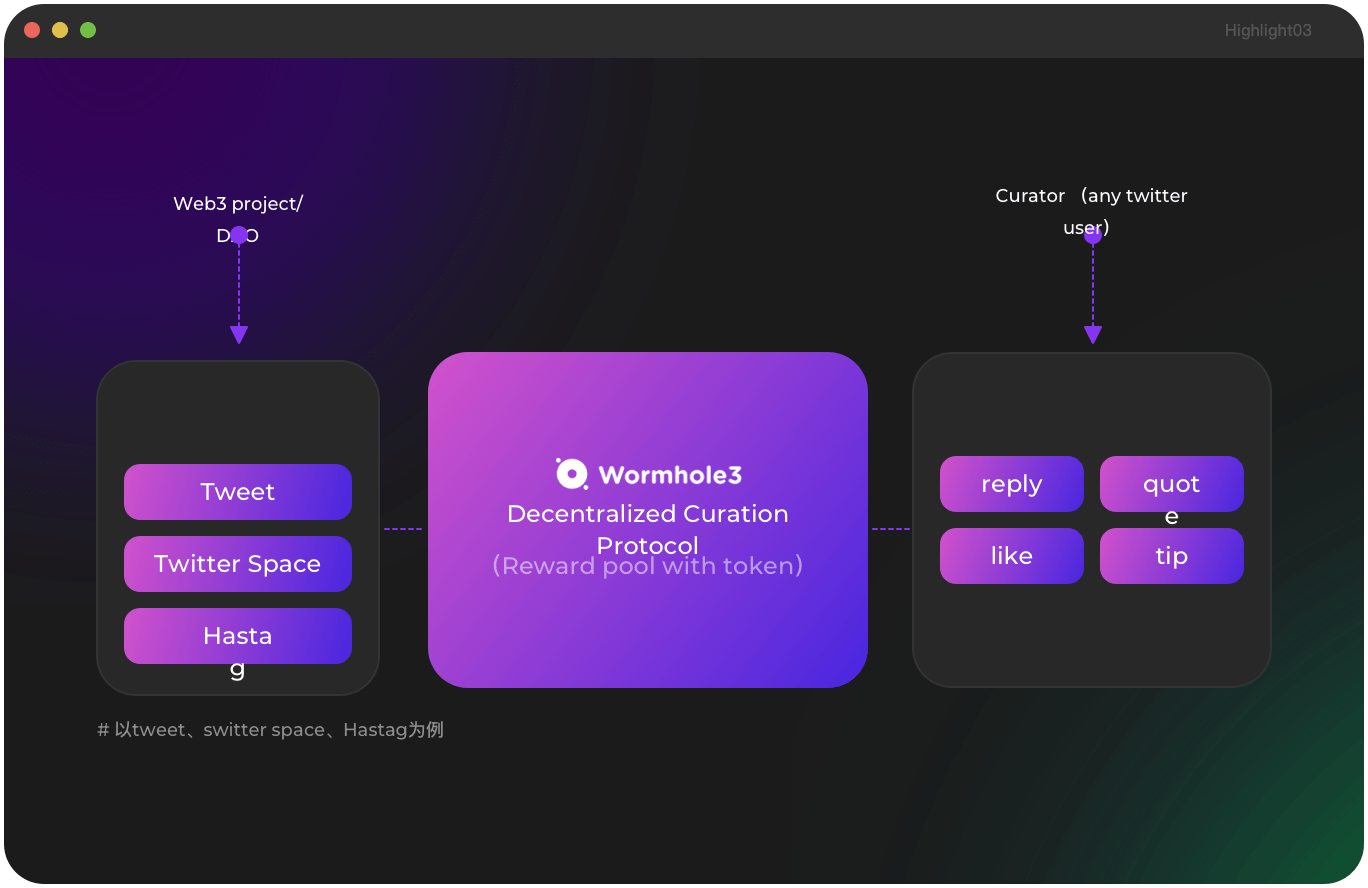
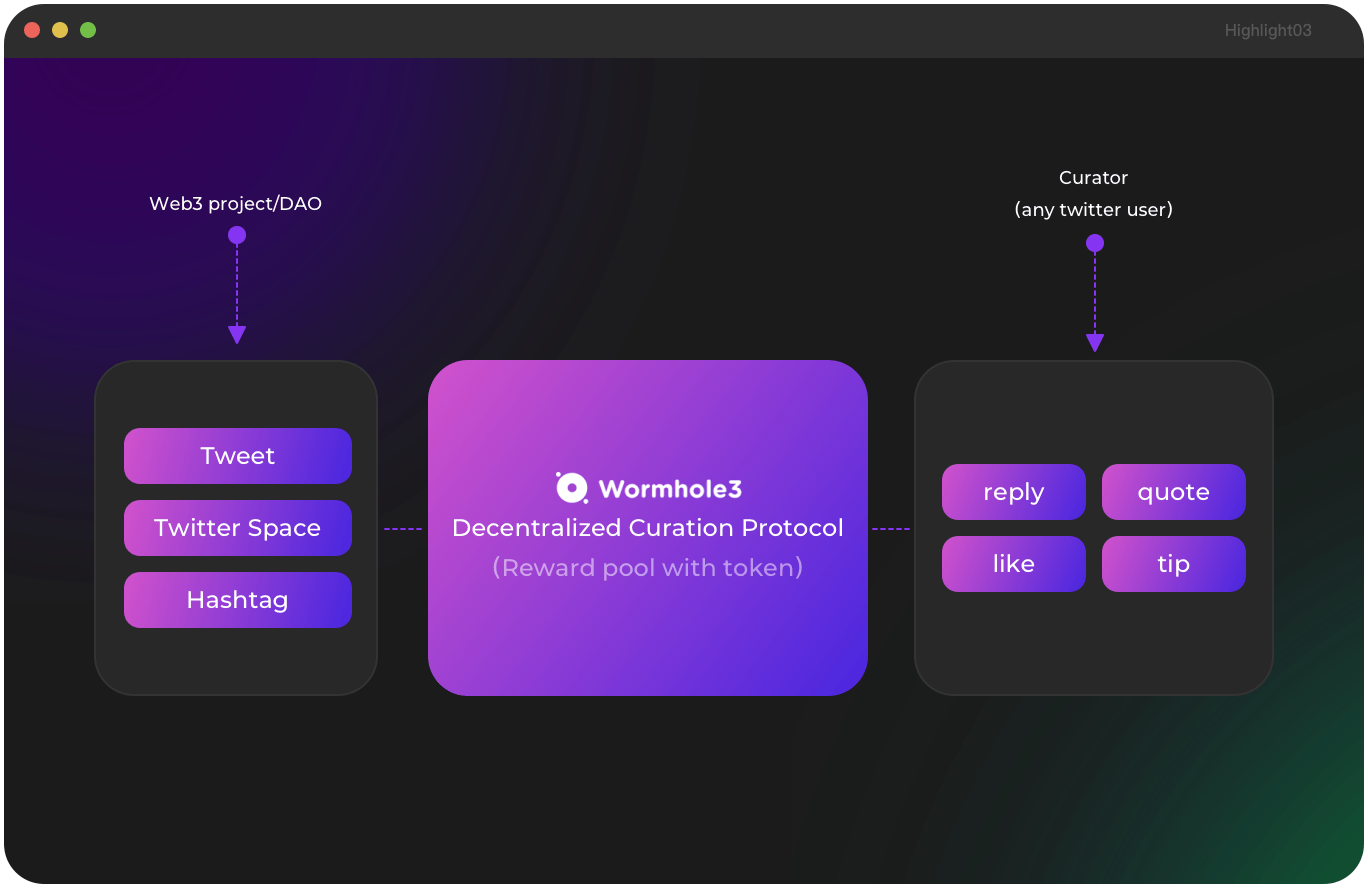
fix ui

diff --git a/src/views/Wormhole3.vue b/src/views/Wormhole3.vue
@@ -6,10 +6,10 @@
                   sm:h-130/100 xs:-top-10/100 object-contain xs:object-cover
                   -right-5/100 xl:right-0 z-0"
            src="~@/assets/wormhole-bg1.png" alt="">
-      <div class="max-w-1080px px-15px sm:px-2rem mx-auto z-1">
+      <div class="max-w-1080px w-full px-15px sm:px-2rem mx-auto z-1">
         <div class="whitespace-pre-line">
-          <div class="text-34px leading-44px xs:text-34px sm:text-48px sm:leading-48px
-                  md:text-60px md:leading-60px lg:text-78px lg:leading-78px
+          <div class="text-28px leading-34px sm:text-44px sm:leading-50px
+                  md:text-54px md:leading-60px lg:text-72px lg:leading-76px
                   font-MonsterratMedium">{{$t('wormhole.section1P1')}}</div>
           <div class="max-w-660px mt-32px font-MonsterratLight opacity-50">{{$t('wormhole.section1P2')}}</div>
         </div>
@@ -46,28 +46,25 @@
               {{$t('wormhole.highlight')}}
             </div>
             <div class="text-right">
-              <div class="flex flex-row-reverse">
-                <div class="border-t-1 border-primaryColor font-MonsterratBlack text-20px py-20px min-w-60px cursor-pointer"
-                     :class="carouselIndex===0?'text-primaryColor':'text-white'"
-                     @click="setCarouselIndex(0)">01</div>
+              <div class="flex flex-row-reverse cursor-pointer" @click="setCarouselIndex(0)">
+                <div class="border-t-1 border-primaryColor font-MonsterratBlack text-20px py-20px min-w-60px"
+                     :class="carouselIndex===0?'text-primaryColor':'text-white'">01</div>
                 <div class="border-t-1 border-white/50 mr-10px py-20px text-12px leading-18px xs:text-16px xs:leading-20px"
                      :class="carouselIndex===0?'text-primaryColor':'text-white'">
                   {{$t('wormhole.section2P1')}}
                 </div>
               </div>
-              <div class="flex flex-row-reverse">
-                <div class="border-t-1 border-primaryColor font-MonsterratBlack text-20px py-20px min-w-60px cursor-pointer"
-                     :class="carouselIndex===1?'text-primaryColor':'text-white'"
-                     @click="setCarouselIndex(1)">02</div>
+              <div class="flex flex-row-reverse cursor-pointer" @click="setCarouselIndex(1)">
+                <div class="border-t-1 border-primaryColor font-MonsterratBlack text-20px py-20px min-w-60px"
+                     :class="carouselIndex===1?'text-primaryColor':'text-white'">02</div>
                 <div class="border-t-1 border-white/50 mr-10px py-20px text-12px leading-18px xs:text-16px xs:leading-20px"
                      :class="carouselIndex===1?'text-primaryColor':'text-white'">
                   {{$t('wormhole.section2P2')}}
                 </div>
               </div>
-              <div class="flex flex-row-reverse">
-                <div class="border-t-1 border-primaryColor font-MonsterratBlack text-20px py-20px min-w-60px cursor-pointer"
-                     :class="carouselIndex===2?'text-primaryColor':'text-white'"
-                     @click="setCarouselIndex(2)">03</div>
+              <div class="flex flex-row-reverse cursor-pointer" @click="setCarouselIndex(2)">
+                <div class="border-t-1 border-primaryColor font-MonsterratBlack text-20px py-20px min-w-60px"
+                     :class="carouselIndex===2?'text-primaryColor':'text-white'">03</div>
                 <div class="border-t-1 border-white/50 mr-10px py-20px text-12px leading-18px xs:text-16px xs:leading-20px"
                      :class="carouselIndex===2?'text-primaryColor':'text-white'">
                   {{$t('wormhole.section2P3')}}
@@ -90,7 +87,7 @@
           {{$t('wormhole.scenario')}}
         </div>
         <div class="flex flex-col md:flex-row items-start md:items-center my-32px gap-36px">
-          <div class="flex-1 font-MonsterratLight text-12px leading-16px sm:min-h-120px flex items-center">
+          <div class="flex-1 font-MonsterratLight text-14px leading-20px sm:min-h-120px flex items-center">
             <div v-if="appCarouselIndex===0" class="max-w-400px whitespace-pre-line">
               {{$t('wormhole.section3P1')}}
             </div>

diff --git a/src/lang/en.js b/src/lang/en.js
@@ -49,7 +49,7 @@ export default {
     partner: 'Partners'
   },
   wormhole: {
-    section1P1: 'Build your influence with a decentralized curation protocol',
+    section1P1: 'Build your influence \n with a decentralized \n curation protocol',
     section1P2: 'Redefine content distribution network with No Chrome plug-in and No gas fee',
     highlight: 'Highlight',
     section2P1: 'Use the curation protocol to build a decentralized content distribution network',
@@ -58,31 +58,31 @@ export default {
     application: 'Application',
     scenario: 'Scenario',
     section3P1: 'Anyone can use Wormhole3 to configure the curation protocol for their tweets, create a curation market, and use cryptocurrencies to reward their community members for their social promotion contributions.',
-    section3P2: 'During Space,\n ① Twitter Space creators can reward their Space promoters with cryptocurrencies,\n ② Speakers can airdrop cryptocurrencies to Space participants by creating flash red envelopes,\n ③ Participants can also reward Speakers Cryptocurrency to show appreciation for its content.',
+    section3P2: 'During Twitter Space,\n ① Creators can reward promoters with cryptocurrencies\n ② Speakers can airdrop cryptocurrencies to participants \n ③ Participants can also reward speakers cryptocurrency to show their appreciation',
     section3P3: 'Anyone can issue tokens for their account, Use the Curation Protocol to distribute tokens to the curator who publishes each tweet/twitter space of the Account, and reward its behaviors such as quote, reply, like, follow and etc.',
     applicationScenario: 'Application Scenario'
   },
   about: {
     section1P1: 'Link Community\n to Web3',
     section1P2: 'Our Mission',
-    section1P3: 'Everyone can start a  DAO and bootstrap it! Any individual can join a free and multilateral global market through Web3.',
+    section1P3: 'Everyone can start a  DAO and bootstrap it! \nAny individual can join a free and multilateral global market through Web3.',
     our: 'Our',
     history: 'History',
-    t1: 'In Q4 of 2017',
+    t1: 'Q4 of 2017',
     p1: 'we launched a club DAO —— 3UDAO, 40 partners set off with the vision of DAO',
-    t2: 'In Q1 of 2019',
+    t2: 'Q1 of 2019',
     p2: 'we created WhereIN - a blockchain-based content community App, and formed a curator DAO',
-    t3: 'In Q4 of 2020',
+    t3: 'Q4 of 2020',
     p3: 'we launched Peanut — a staking DAO. The PoS-based Staking Economy raised funds (ISO) for the DAO and launched staking asset liquidity, liquidity mining, staking pool, proposal governance, etc',
-    t4: 'In Q4 of 2021',
+    t4: 'Q4 of 2021',
     p4: 'we launched Nutbox - a staking DAO creation platform, allowing everyone to create a DAO like Peanut in 3 minutes. Nutbox won third place in the Wanxiang Hackathon in 2021. The TVL reached $36Million 3 weeks after launching it',
-    t5: 'In 2022 Q3',
+    t5: '2022 Q3',
     p5: 'Wormhole3 testnet was launched. We help Web3 projects/DAOs quantify the social influence contributions of community members (such as Quote/Retweet) through curation protocols, and automatically distribute the Tokens of projects/DAOs to contributors.',
-    section3P1: 'Our history',
-    section3P2: 'Wormhole3 is an important part of Coincidence Labs. The vision of Labs is: to empower communities and super-individuals, and help them build agreements to motivate their members\' financial and social contributions.',
+    section3P1: 'Our vision',
+    section3P2: 'Wormhole3 is an important part of Coincidence Labs. \nThe vision of Labs is: to empower communities and super-individuals, \nand help them build agreements to motivate their members\' financial and social contributions.',
     dao: 'DAO',
     smartContract: 'Smart contract',
-    section3P3: 'A DAO Cretion Platform',
+    section3P3: 'A DAO Creation Platform',
     section3P4: 'Curation Protocol',
     section3P5: 'Web3 Protocol（lottery,proof of Brain protocol and etc.）',
     layer1Protocol: 'Layer1 protocol',

diff --git a/src/lang/zh.js b/src/lang/zh.js
@@ -49,7 +49,7 @@ export default {
     partner: '合作伙伴'
   },
   wormhole: {
-    section1P1: '通过去中心化的策展协议建立你的影响力',
+    section1P1: '通过去中心化的策展协议\n建立你的影响力',
     section1P2: '无 Chrome 插件，无 gas 费，重新定义内容分发网络',
     highlight: 'Highlight',
     section2P1: '使用策展协议构建去中心化内容分发网络',
@@ -58,14 +58,14 @@ export default {
     application: '应用',
     scenario: '场景',
     section3P1: '任何人都可以使用Wormhole3为其tweet配置curation protocol，创建策展市场，使用加密货币奖励其社区成员的社交传播贡献。',
-    section3P2: '在Space中，\n① Twitter Space创建者可以使用加密货币奖励其Space的传播者，\n② Speaker可以通过创建快闪红包将加密货币空投给Space互动者，\n③ 参与者亦可对Speaker打赏加密货币以表达对其内容的赞赏。',
+    section3P2: '在Space中，\n① 创作者可以用加密货币奖励其Space的传播者，\n② Speaker可以将加密货币空投给Space互动者，\n③ 参与者亦可对Speaker打赏加密货币以表达对其内容的赞赏。',
     section3P3: '任何人可以为其Account发行Token，使用Curation Protocol将Token分发给Account发布每一条tweet/twitter space的curator，奖励其quote, reply, like and follow等行为.',
     applicationScenario: '应用场景'
   },
   about: {
     section1P1: 'Link Community\n to Web3',
     section1P2: '我们的使命',
-    section1P3: '人人能发起DAO，并实现其冷启动！任何微小个体能够通过Web3加入到一个自由的、多边的全球市场。',
+    section1P3: '人人能发起DAO，并实现其冷启动！\n任何微小个体能够通过Web3加入到一个自由的、多边的全球市场。',
     our: '我们的',
     history: '历史',
     t1: '2017年Q4',
@@ -78,11 +78,11 @@ export default {
     p4: '我们上线了Nutbox —— 一个质押DAO创建平台，让人人都可以3分钟创建Peanut这样的DAO。获得了2021年万向黑客松季军，上线3周，TVL高达$36Million；',
     t5: '2022年Q3',
     p5: ' Wormhole3测试网上线。我们帮助Web3项目/DAO，通过策展协议量化社区成员社交影响力所做的贡献（比如Quote/Retweet），并自动将项目/DAO的Token分发给贡献者。',
-    section3P1: '我们的历史',
-    section3P2: 'Wormhole3 是 Coincidence Labs 的重要组成部分。 Labs 的愿景是：赋能社区和超级个体，帮助他们建立协议，以激励其成员的金融和社交贡献。',
+    section3P1: '我们的愿景',
+    section3P2: 'Wormhole3 是 Coincidence Labs 的重要组成部分。\n Labs 的愿景是：赋能社区和超级个体，帮助他们建立协议，以激励其成员的金融和社交贡献。',
     dao: 'DAO',
     smartContract: '智能合约',
-    section3P3: 'A DAO Cretion Platform',
+    section3P3: 'A DAO Creation Platform',
     section3P4: '策展协议',
     section3P5: 'Web3 Protocol（lottery,proof of Brain protocol and etc.）',
     layer1Protocol: 'Layer1 协议',

diff --git a/src/views/Home.vue b/src/views/Home.vue
@@ -56,6 +56,7 @@
             <el-carousel :height="carouselHeight" indicator-position="none"
                          :interval="3500" arrow="never" :autoplay="true"
                          :initial-index="carouselIndex"
+                         ref="featureCarouselRef"
                          @change="carouselChange">
               <el-carousel-item>
                 <img class="mx-auto w-full object-contain" src="~@/assets/feature-img1.png" alt="">
@@ -68,10 +69,14 @@
               </el-carousel-item>
             </el-carousel>
             <div class="flex items-center justify-center gap-x-20px py-20px">
-              <button class="disabled:opacity-50" :disabled="carouselIndex===0" @click="carouselIndex-=1">
+              <button class="disabled:opacity-50"
+                      :disabled="carouselIndex===0"
+                      @click="setCarouselIndex(carouselIndex-1)">
                 <img class="transform rotate-180 w-2.6rem h-2.6rem" src="~@/assets/icon-change-primary.svg" alt="">
               </button>
-              <button class="disabled:opacity-50" :disabled="carouselIndex===2" @click="carouselIndex+=1">
+              <button class="disabled:opacity-50"
+                      :disabled="carouselIndex===2"
+                      @click="setCarouselIndex(carouselIndex+1)">
                 <img class="w-2.6rem h-2.6rem" src="~@/assets/icon-change-primary.svg" alt="">
               </button>
             </div>
@@ -232,8 +237,13 @@
 import {onMounted, onUnmounted, ref} from "vue";
 
 const carouselIndex = ref(0)
+const featureCarouselRef = ref()
 const carouselChange = (index) => {
   carouselIndex.value = index
+}
+const setCarouselIndex = (index) => {
+  carouselIndex.value = index
+  featureCarouselRef.value.setActiveItem(index)
 }
 const carouselHeight = ref('500px')
 const gotoWormhole = () => {

diff --git a/src/views/AboutUs.vue b/src/views/AboutUs.vue
@@ -24,10 +24,10 @@
             {{$t('about.our')}}
             <span class="text-primaryColor">{{$t('about.history')}}</span>
           </div>
-          <div class="mb-36px">
-            <div class="text-20px leading-24px font-MonsterratBlack">{{$t('about.t1')}}</div>
-            <div class="text-12px leading-16px mt-12px opacity-50">{{$t('about.p1')}}</div>
-          </div>
+<!--          <div class="mb-36px">-->
+<!--            <div class="text-20px leading-24px font-MonsterratBlack">{{$t('about.t1')}}</div>-->
+<!--            <div class="text-12px leading-16px mt-12px opacity-50">{{$t('about.p1')}}</div>-->
+<!--          </div>-->
           <div class="mb-36px">
             <div class="text-20px leading-24px font-MonsterratBlack">{{$t('about.t2')}}</div>
             <div class="text-12px leading-16px mt-12px opacity-50">{{$t('about.p2')}}</div>
@@ -53,7 +53,7 @@
         {{$t('about.section3P1')}}
       </div>
       <div class="max-w-780px mx-auto mt-14px font-MonsterratLight opacity-50 text-12px leading-18px
-                  text-center md:text-16px md:leading-22px">
+                  text-center md:text-16px md:leading-22px sm:whitespace-pre-line">
         {{$t('about.section3P2')}}
       </div>
       <div class="py-2rem sm:py-5rem sm:pl-30px sm:pr-15px grid-box-bg mt-2rem sm:mt-4rem">
